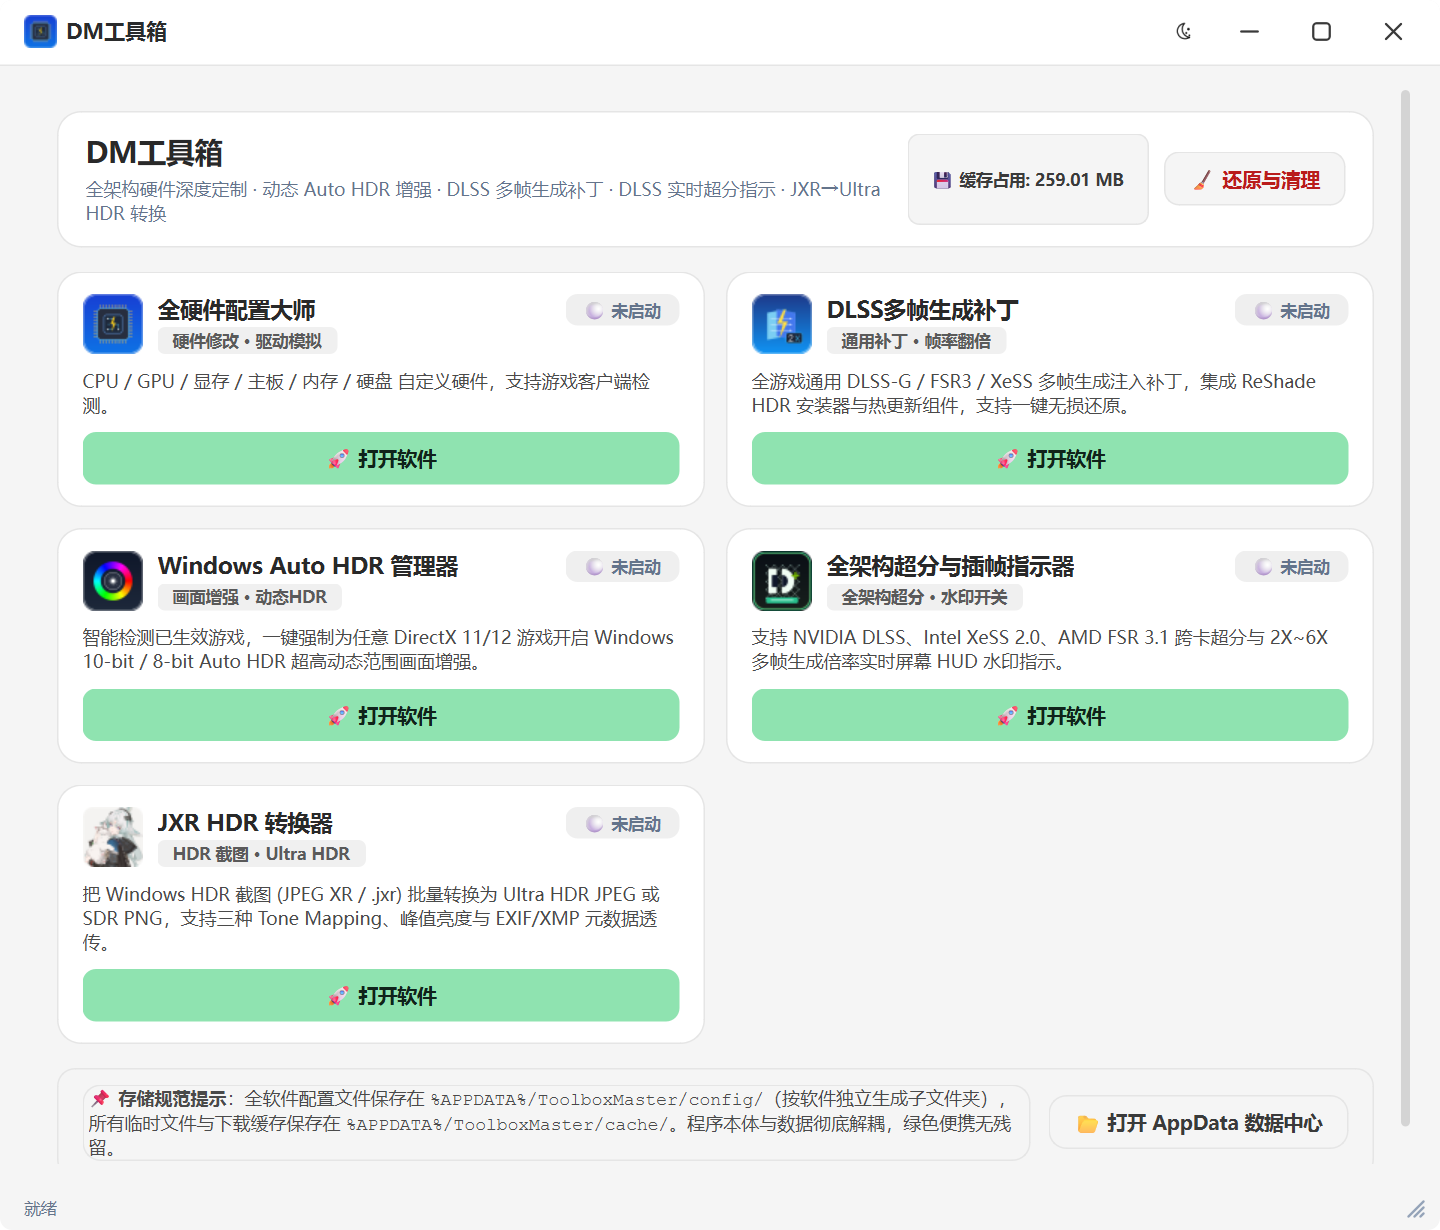
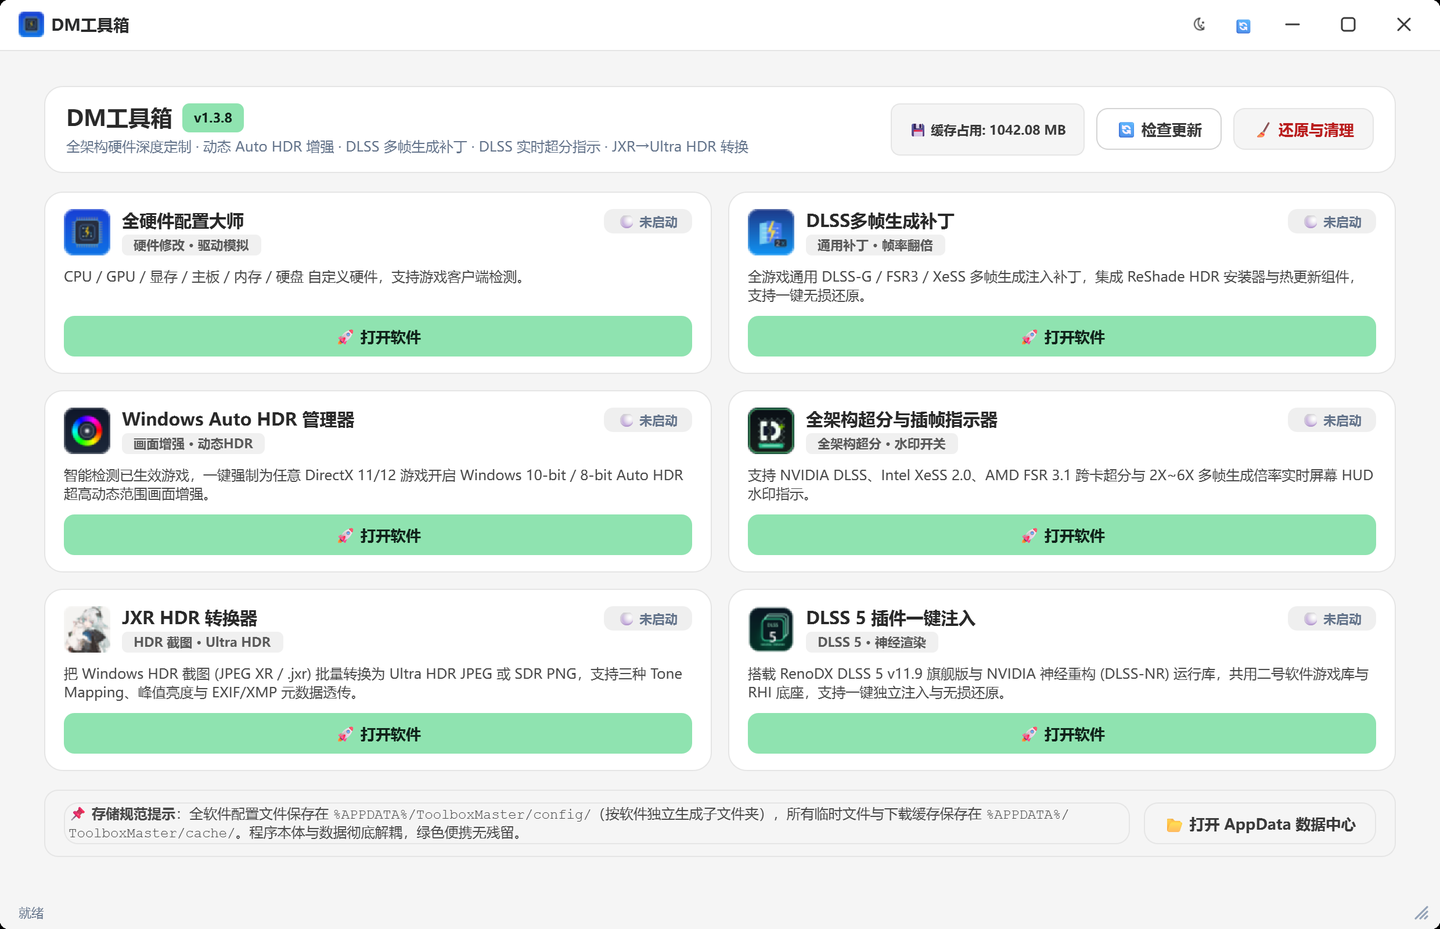
docs(readme): 更新 v1.3.8 界面预览图，新增 DLSS 5 模块介绍并修正显卡徽章排版

diff --git a/apps/app6_dlss5/app.py b/apps/app6_dlss5/app.py
@@ -159,6 +159,8 @@ class DLSS5MainWindow(DMBaseWindow):
         self.lbl_gpu_badge.setText(f"🖥 {short_gpu}")
         self.lbl_gpu_badge.setToolTip(f"物理显卡: {gpu_name}")
         self.lbl_gpu_badge.setMaximumWidth(260)
+        self.lbl_gpu_badge.setFixedHeight(34)
+        self.lbl_gpu_badge.setSizePolicy(QSizePolicy.Policy.Maximum, QSizePolicy.Policy.Fixed)
         self.lbl_gpu_badge.setStyleSheet("""
             QLabel {
                 background: rgba(143, 227, 176, 0.15);
@@ -168,7 +170,7 @@ class DLSS5MainWindow(DMBaseWindow):
                 padding: 6px 14px;
             }
         """)
-        banner_layout.addWidget(self.lbl_gpu_badge)
+        banner_layout.addWidget(self.lbl_gpu_badge, 0, Qt.AlignmentFlag.AlignVCenter)
 
         self.content_layout.addLayout(banner_layout)
 

diff --git a/README.md b/README.md
@@ -8,12 +8,12 @@
   <img alt="DM-Toolbox" src="common/assets/preview_main.png">
 </picture>
 
-**一站式全能硬件深度定制、游戏多帧生成补丁、Auto HDR 画质增强与 DLSS 实时监测综合工具箱**
+**一站式全能硬件深度定制、游戏多帧生成补丁、Auto HDR 画质增强、DLSS 5 神经重构与 DLSS 实时监测综合工具箱**
 
 [![Platform](https://img.shields.io/badge/Platform-Windows%2010%20%2F%2011-blue.svg)](https://microsoft.com)
 [![Python](https://img.shields.io/badge/Python-3.14+-green.svg)](https://python.org)
 [![Qt](https://img.shields.io/badge/GUI-PySide6%20%2F%20Fluent%20Design-orange.svg)](https://www.qt.io)
-[![Release](https://img.shields.io/badge/Release-v1.2.7-brightgreen.svg)](https://github.com/Iridescent10-art/DM-Toolbox/releases)
+[![Release](https://img.shields.io/badge/Release-v1.3.8-brightgreen.svg)](https://github.com/Iridescent10-art/DM-Toolbox/releases)
 
 </div>
 
@@ -21,7 +21,7 @@
 
 ## 🌟 核心功能一览
 
-`DM-Toolbox` 整合了 5 款独立功能模块，采用全新统一的 **DM 通用设计语言底座 SDK (`dm_ui_core.py`)**：
+`DM-Toolbox` 整合了 6 款独立功能模块，采用全新统一的 **DM 通用设计语言底座 SDK (`dm_ui_core.py`)**：
 - **DWM 硬件级无锯齿圆角抗锯齿合成 (`DWMWCP_ROUND=2`)**：彻底消除 QSS 软裁剪带来的四角白边与毛边锯齿；
 - **全窗口统一右下角双斜线 `//` 矢量缩放手柄 (`DMSizeGrip`)**：主启动器与所有子软件窗口风格 100% 像素级对齐；
 - **跨窗口日间 / 夜间模式实时无感同步 (`DMThemeManager`)**。
@@ -84,6 +84,24 @@
 - 内置 Google `libultrahdr 1.5.1` + `libjpeg-turbo 3.2.0`，支持 `libultrahdr` / `ACES` / `BT.2446` 三种 Tone Mapping、JPEG 质量 60–100、峰值亮度自动/预设/自定义、EXIF/XMP 元数据透传。
 - 独立单文件 `JxrConverter.exe`（约 66MB，免 .NET 运行时安装），由启动器以外部 EXE 方式打开；**沿用作者原始图标，未做任何修改**。
 - **深 / 浅主题切换**：标题栏太阳/月亮按钮即时切换，选择保存到 `settings.json`；强调色由蓝色改为浅绿色，界面与工具箱的 DM 中性主题一致。
+
+### 6. 🧠 DLSS 5 神经重构注入器 (`app6_dlss5`)
+
+<div align="center">
+
+<picture>
+  <source media="(prefers-color-scheme: dark)" srcset="common/assets/preview_dlss5_dark.png">
+  <source media="(prefers-color-scheme: light)" srcset="common/assets/preview_dlss5_light.png">
+  <img alt="DLSS 5 神经重构注入器" src="common/assets/preview_dlss5.png">
+</picture>
+
+</div>
+
+- **RenoDX DLSS 5 v11.9 旗舰插件**：一键部署 ReShade 6.8 Add-on 底座 (`dxgi.dll`) + `renodx-dlss5-v11.9.addon64` + `nvngx_dlssnr.dll`，为 DLSS 超分接管神经网络渲染与画质重构。
+- **架构自适应运行库**：按物理显卡自动选择模型——RTX 20/30/40 用 263.37 MB 版本、RTX 50 (Blackwell) 用 254.08 MB 版本，避免内核与硬件不匹配。
+- **与多帧生成全自动共存**：模式 A/B/C/D 同时注入时自动做 DLL 槽位隔离（ReShade 固定 `dxgi.dll`、OptiScaler 迁移到 `winmm`/`version`），并清理 fakenvapi 与重复 ReShade 实例，从根上修掉「模式 C + DLSS 5 同时注入闪退」。
+- **游戏内中文面板**：按 `Home` 呼出 RenoDX 中文调参面板（Preset / 风格 / 强度 / 皮肤结构 / 显存缓冲），`F6` 实时开关神经重构。
+- **无损还原**：一键卸载并深度净化 ReShade / DLSS 5 / runtime / 代理 DLL，100% 恢复游戏原生目录。
 
 ---
 
